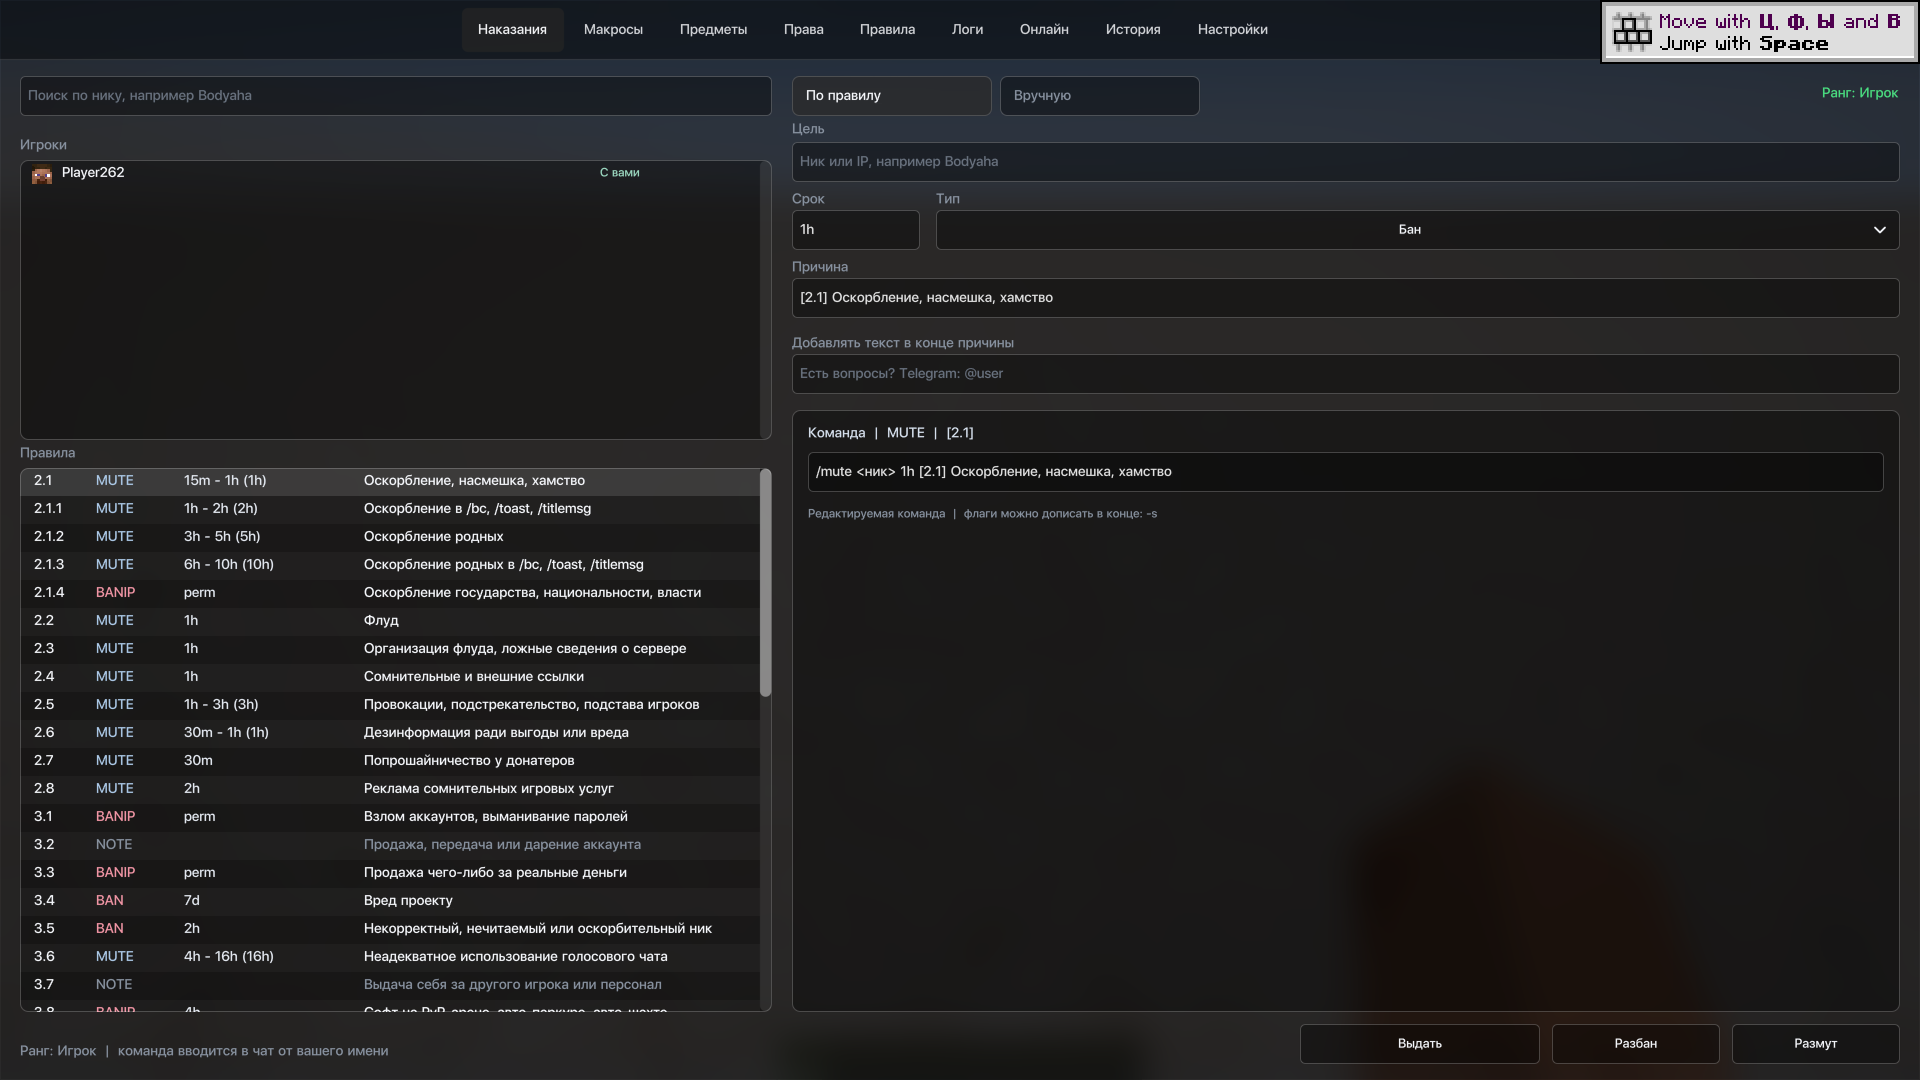
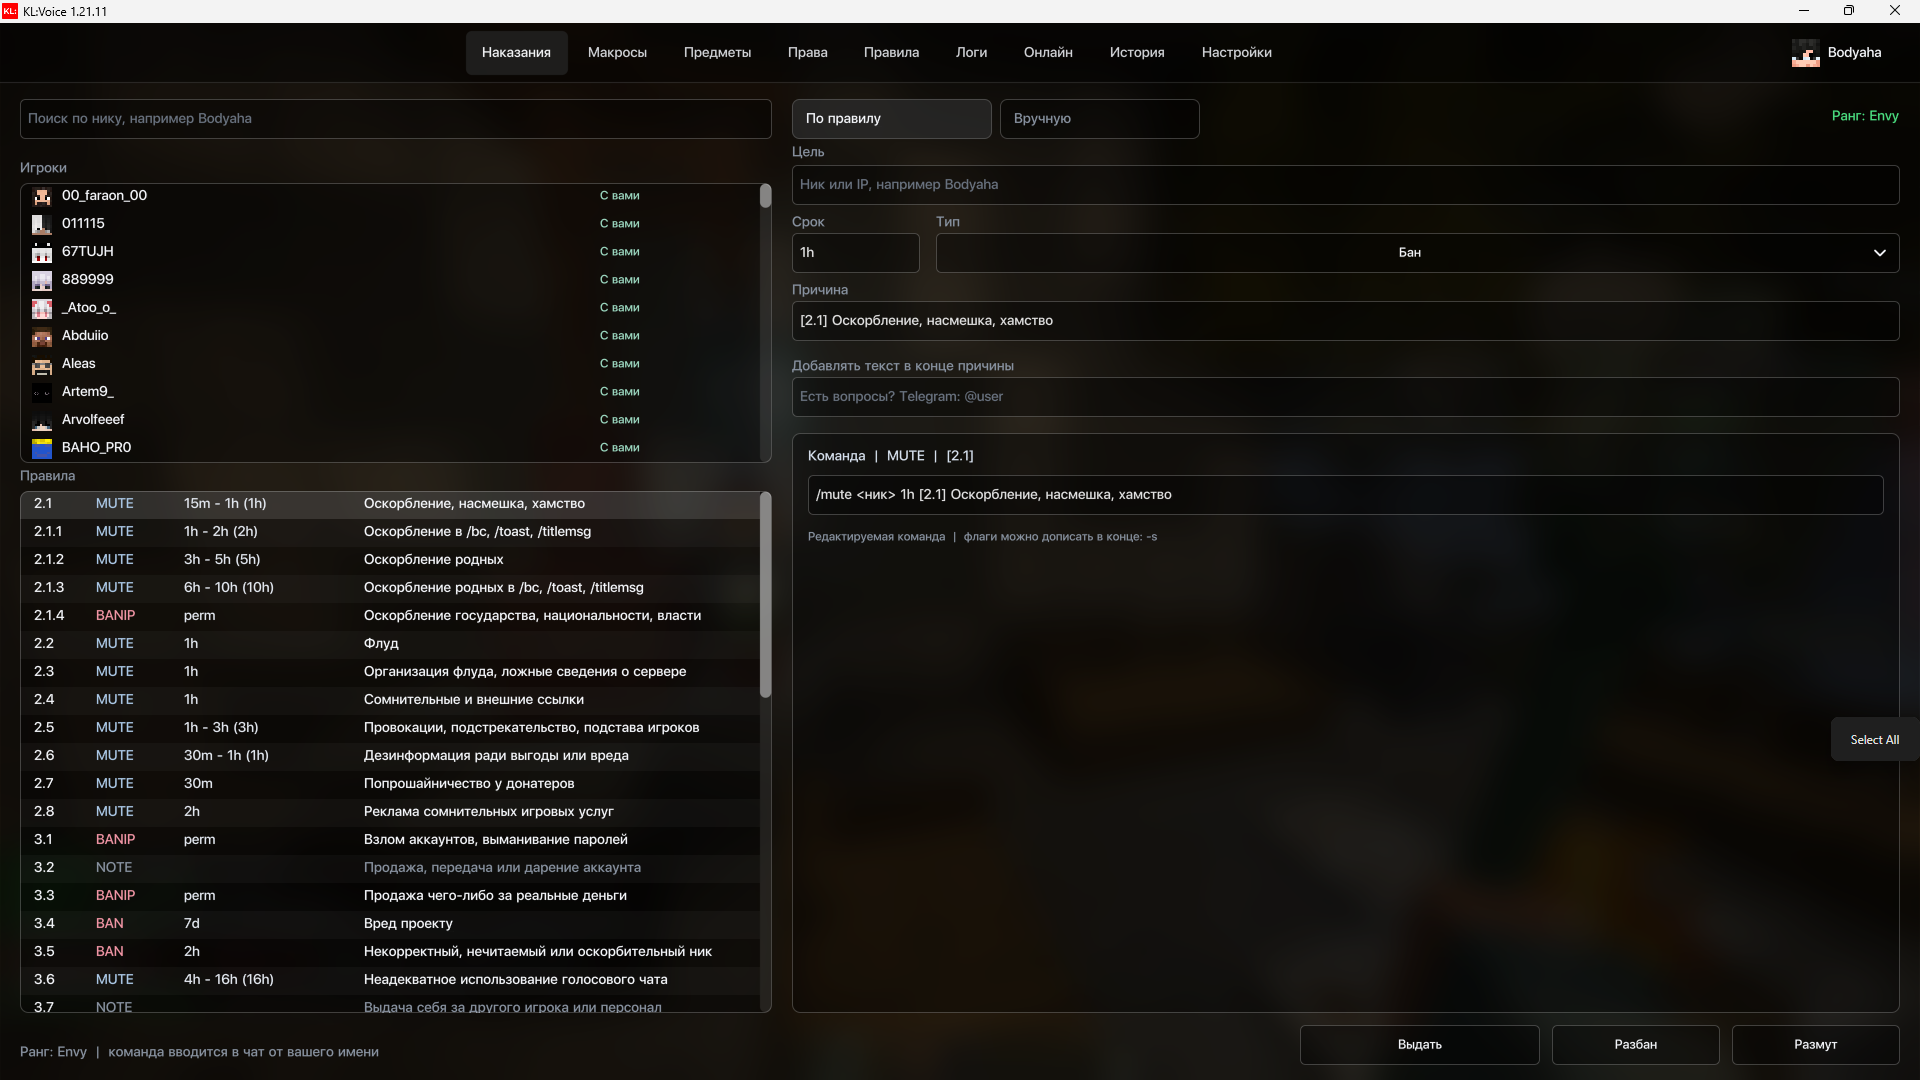
Добавляю скриншоты и выпуск 1.0.0 для KLVoice

diff --git a/README.md b/README.md
@@ -1,6 +1,6 @@
 # Envyworld Panel
 
-Моя клиентская панель для работы на Envyworld. Я собрал в одном меню наказания, правила, макросы, предметы, логи и инструменты наблюдателя — чтобы не держать все команды в голове и не переключаться постоянно между игрой и сайтом.
+Моя клиентская панель для сервера **play.envyworld.gg**, сделанная под **KLVoice в KLauncher**. Я собрал в одном меню наказания, правила, макросы, предметы, логи и инструменты наблюдателя — чтобы не держать все команды в голове и не переключаться постоянно между игрой и сайтом.
 
 Мод работает на **Minecraft 1.21.11, Fabric**. На сервер его устанавливать не нужно. Команды выполняются от имени игрока с его обычными правами.
 
@@ -9,7 +9,7 @@
 ## Что есть в панели
 
 - **Наказания.** Выбор игрока, пресеты правил, срок, причина и предпросмотр команды перед отправкой. Отдельные действия для снятия наказаний.
-- **Макросы.** Команды на атаку, использование предмета или свою клавишу; выбор цели по взгляду и в радиусе; несколько команд с задержками и повторами. Фильтр предмета действует и для отдельного бинда. Обычные клавиши работают при зажатых Ctrl и Shift.
+- **Макросы.** Команды на атаку, использование предмета или свою клавишу; выбор цели по взгляду и в радиусе; несколько команд с задержками и повторами. Фильтр предмета действует и для отдельного бинда.
 - **Предметы.** Каталог Minecraft и редактор своих предметов: название, описание, зачарования, атрибуты, модель и другие компоненты. Можно связать предмет с макросом и обмениваться коллекциями через JSON. Выдача предметов требует креатива.
 - **Права и правила.** Список привилегий и команд по режимам, поиск по правилам и подстановка выбранного пункта в наказание.
 - **Логи и профили.** Поиск наказаний, фильтры по типу и серверу, подробности записи, скины и история игрока.
@@ -21,9 +21,12 @@
 
 ## Установка
 
-1. Установите Minecraft **1.21.11**, Fabric Loader **0.19.5** и Fabric API **0.141.6+1.21.11**.
-2. Соберите мод и положите `build/libs/envyworld-1.0.0.jar` в папку `mods` своего клиента.
-3. Откройте меню правым **Shift**. Общая клавиша предметных макросов — **V**.
+1. В KLauncher выберите **KLVoice для Minecraft 1.21.11**.
+2. Скачайте [`envyworld-1.0.0.jar`](https://github.com/Bodyaha-Sobolev/Envyworld-Panel/releases/latest/download/envyworld-1.0.0.jar) из [релизов](https://github.com/Bodyaha-Sobolev/Envyworld-Panel/releases/latest).
+3. Закройте игру и положите JAR в папку `mods` профиля **KLVoice**. При обновлении замените предыдущий JAR мода.
+4. Запустите KLVoice и зайдите на **play.envyworld.gg**. Меню открывается правым **Shift**, общая клавиша предметных макросов — **V**.
+
+Сборка рассчитана на **Minecraft 1.21.11**, **Fabric Loader 0.19.5** и **Fabric API 0.141.6+1.21.11**. Fabric API должен быть установлен в том же профиле.
 
 Клавиши можно переназначить в управлении Minecraft. Для проверки аккаунтов и открытия профиля цели предусмотрены отдельные бинды; по умолчанию они не назначены.
 
@@ -112,6 +115,58 @@ Envyworld-Panel/
 ```
 
 Полное дерево файлов — [PROJECT_TREE.md](docs/PROJECT_TREE.md). Связи между модулями и основные сценарии — [ARCHITECTURE.md](docs/ARCHITECTURE.md).
+
+
+## Скриншоты
+
+<details>
+<summary>Макросы</summary>
+
+![Макросы](docs/images/macros.png)
+
+</details>
+
+<details>
+<summary>Свои предметы</summary>
+
+![Свои предметы](docs/images/items.png)
+
+</details>
+
+<details>
+<summary>Редактор предмета</summary>
+
+![Редактор предмета](docs/images/item-editor.png)
+
+</details>
+
+<details>
+<summary>Правила</summary>
+
+![Правила](docs/images/rules.png)
+
+</details>
+
+<details>
+<summary>Логи наказаний</summary>
+
+![Логи наказаний](docs/images/logs.png)
+
+</details>
+
+<details>
+<summary>Онлайн сервера</summary>
+
+![Онлайн сервера](docs/images/online.png)
+
+</details>
+
+<details>
+<summary>История и профиль игрока</summary>
+
+![История и профиль игрока](docs/images/profile.png)
+
+</details>
 
 ## Обратная связь
 

diff --git a/docs/ARCHITECTURE.md b/docs/ARCHITECTURE.md
@@ -14,7 +14,7 @@
 
 `Binding` хранит триггер, команду, предмет, клавишу, режим повторения и задержки. `ClientMacros` проверяет условия запуска и ведёт активные последовательности. `MacroKeys` читает клавиатуру и мышь, `MacroRepeatState` отвечает за повторы, `MacroSequence` — за очередность команд.
 
-Обычный бинд без явно назначенных модификаторов допускает зажатые Ctrl и Shift. Явно заданные сочетания проверяются отдельно. Предмет проверяется одинаково для общей и отдельной клавиши: выбор горячего бинда не отменяет предметный фильтр.
+Предмет проверяется одинаково для общей и отдельной клавиши: выбор горячего бинда не отменяет предметный фильтр.
 
 `CustomItems` строит ItemStack из пресета и сравнивает компоненты с предметом в руке. Пресеты, модели и варианты предметов описаны в `items/`. `PresetExchange` проверяет JSON до изменения коллекции, убирает дубликаты и переназначает идентификаторы при импорте.
 

diff --git a/docs/PROJECT_TREE.md b/docs/PROJECT_TREE.md
@@ -9,7 +9,14 @@ Envyworld-Panel/
 │       └── build.yml
 ├── docs/
 │   ├── images/
-│   │   └── menu.png
+│   │   ├── item-editor.png
+│   │   ├── items.png
+│   │   ├── logs.png
+│   │   ├── macros.png
+│   │   ├── menu.png
+│   │   ├── online.png
+│   │   ├── profile.png
+│   │   └── rules.png
 │   ├── ARCHITECTURE.md
 │   └── PROJECT_TREE.md
 ├── gradle/
@@ -409,4 +416,4 @@ Envyworld-Panel/
 └── THIRD_PARTY_NOTICES.md
 ```
 
-Всего файлов: 344.
+Всего файлов: 351.
